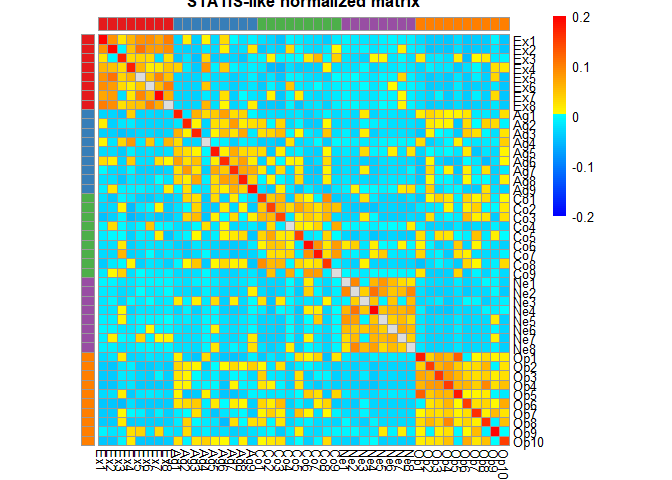
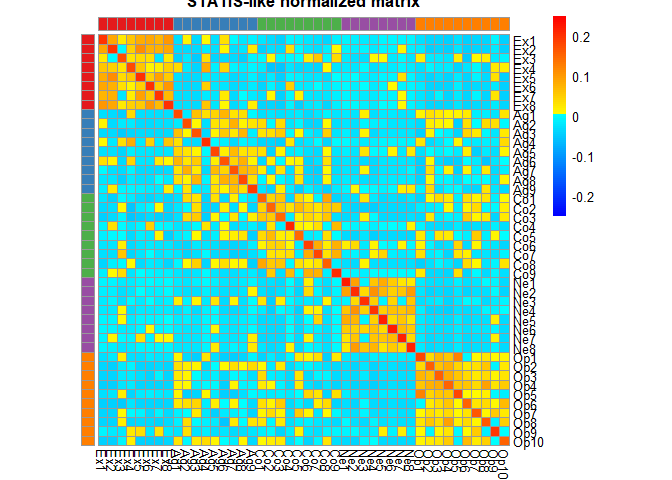
Finish the notes for this markdown, and add scree plots for the two PCA.
The note summarize what we think this normalization does and what the component shows.

diff --git a/testingNormalization/demo_STATISnorm4r.md b/testingNormalization/demo_STATISnorm4r.md
@@ -78,7 +78,14 @@ group.des.col <- list(group = c(E = RColorBrewer::brewer.pal(5,"Set1")[1],
 value.col <- colorRamps::blue2red(100)
 ```
 
-Plot the heatmap:
+### The heatmap:
+
+Given that all networks have strong within connection, we want to
+differentiate networks that:
+
+  - have low between-network connection (an isolate network) – E and N
+  - have strong connection with one other network – A and C
+  - have strong connection with two (or more) other network – O
 
 ![](demo_STATISnorm4r_files/figure-gfm/show_cor-1.png)<!-- -->
 
@@ -93,8 +100,6 @@ of 0.
 # center columns and rows
 corX.c <- cor.X %>% scale(scale = FALSE) %>% t %>% scale(scale = FALSE)
 ```
-
-Plot the heatmap:
 
 ### STEP 1.5: Eigen decomposition
 
@@ -114,13 +119,20 @@ Plot eigen vectors:
 
 ![](demo_STATISnorm4r_files/figure-gfm/plot_dc_ev-1.png)<!-- -->
 
+Double-centering subtracts the most from the network that connects most
+to other networks.
+
 ### STEP 2 : Devided the double-centered matrix by the first eigenvalue
 
 ``` r
 end.X <- corX.c/Lambda.corX[1]
 ```
 
-Compared the STATIS-like normalized matrix to the original matrix:
+#### Compared the STATIS-like normalized matrix to the original matrix:
+
+As mentioned above, when we double-center the matrix, the value
+subtracted from the most connected network will be large, and thus the
+value will become smaller than those who connect less to other networks.
 
 ![](demo_STATISnorm4r_files/figure-gfm/o_n_mat-1.png)<!-- -->
 
@@ -180,9 +192,10 @@ Plot them:
     ## O 0.05683041 0.17906033 0.19537509 0.01968514 0.45215325
 
 ![](demo_STATISnorm4r_files/figure-gfm/grid_small_mats-1.png)<!-- -->
-\#\#\#\# PCA results with STATIS-normalized and original matrix
 
 ## Try PCA
+
+### PCA results with STATIS-normalized and original matrix
 
 Let’s see how the PCA results are changed after the STATIS-like
 normalization.
@@ -196,4 +209,24 @@ corX.pca.res <- epPCA(cor.X, center = FALSE, scale = FALSE, DESIGN = group.des, 
 endX.pca.res <- epPCA(end.X, center = FALSE, scale = FALSE, DESIGN = group.des, make_design_nominal = TRUE, graphs = FALSE)
 ```
 
-Compare ![](demo_STATISnorm4r_files/figure-gfm/grid_pca-1.png)<!-- -->
+#### Compare
+
+    ## [1] "It is estimated that your iterations will take 0.1 minutes."
+    ## [1] "R is not in interactive() mode. Resample-based tests will be conducted. Please take note of the progress bar."
+    ## ===========================================================================
+    ## [1] "It is estimated that your iterations will take 0.1 minutes."
+    ## [1] "R is not in interactive() mode. Resample-based tests will be conducted. Please take note of the progress bar."
+    ## ===========================================================================
+
+![](demo_STATISnorm4r_files/figure-gfm/grid_scree-1.png)<!-- -->
+
+  - The network with the largest size will dominate the first component.
+  - The first component gives the frequency of connections for each
+    network.
+  - The second component differentiates different isolated networks.
+
+When compared to PCA of the original matrix, the STATIS-like
+normalization is similar to a rotation for components 1 and 2. The third
+component is not making much sense.
+
+![](demo_STATISnorm4r_files/figure-gfm/grid_pca-1.png)<!-- -->
